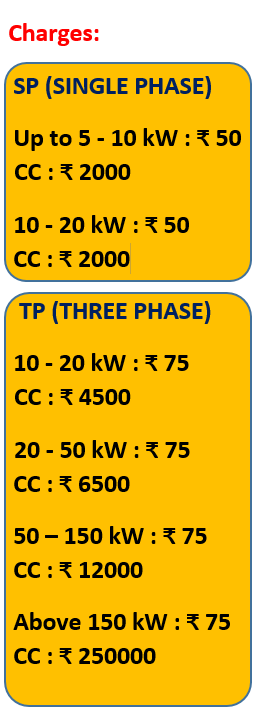
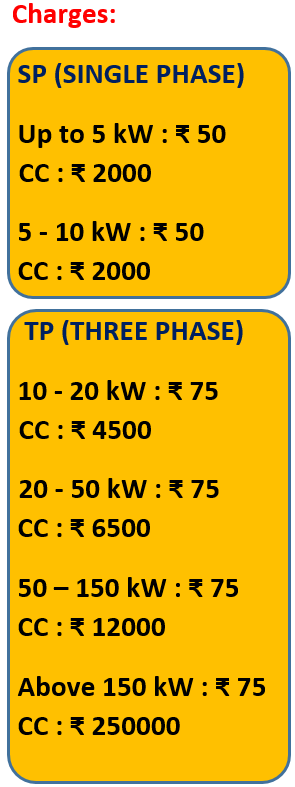
created email and pdf created editentry function and showentry funciton

diff --git a/Electrica/main.py b/Electrica/main.py
@@ -154,7 +154,7 @@ def consumerEntry():
     receipt_toplogo = Label(conentry, image=entrytop, borderwidth="0")
     receipt_toplogo.place(x="37", y="2")
 
-    conentry_left = Image.open("Images/charges.png")
+    conentry_left = Image.open("Images/charges2.png")
     entryleft = ImageTk.PhotoImage(conentry_left)
     conentry.photo = entryleft  # solution for bug in `PhotoImage`
     receipt_leftcharges = Label(conentry, image=entryleft, borderwidth="0")
@@ -569,7 +569,7 @@ def editwindow():
     editdetailsbtn = Image.open("Images/editdetails_btn.png")
     editdetailsbtn = ImageTk.PhotoImage(editdetailsbtn)
     editentry.photo3 = editdetailsbtn
-    submit_receipt = Button(editentry, image=editdetailsbtn, bg="goldenrod1", bd="0", activebackground='green')
+    submit_receipt = Button(editentry, image=editdetailsbtn, bg="goldenrod1", bd="0", activebackground='green',command=editentries)
     submit_receipt.place(x="190", y="250")
 
     editentry.mainloop()
@@ -752,6 +752,140 @@ def showentry():
     print("Consumer details displayed")
 
     condisplay.mainloop()
+
+def editentries():
+    conentry = Toplevel()
+    global conname_entry, conphone_entry, address1_entry, address2_entry, address3_entry, pincode_entry, email_entry, aadhar_entry, pan_entry, click, click2, var, meter_entry
+    window_width, window_height = 1000, 950
+    screen_width = conentry.winfo_screenwidth()
+    screen_height = conentry.winfo_screenheight()
+    position_top = int(screen_height / 2 - window_height / 2)
+    position_right = int(screen_width / 2 - window_width / 2)
+    conentry.geometry(f"{window_width}x{window_height}+{position_right}+{position_top}")
+
+    conentry.title("CONSUMER DETAILS ENTRY")
+    conentry.configure(bg="white")
+    conentry.resizable(width=False, height=False)
+    conentry.iconbitmap('Images/icon2.ico')
+
+    conentry_top = Image.open("Images/adcon_toptemp.png")
+    entrytop = ImageTk.PhotoImage(conentry_top)
+    conentry.photo = entrytop  # solution for bug in `PhotoImage`
+    receipt_toplogo = Label(conentry, image=entrytop, borderwidth="0")
+    receipt_toplogo.place(x="37", y="2")
+
+    conentry_left = Image.open("Images/charges2.png")
+    entryleft = ImageTk.PhotoImage(conentry_left)
+    conentry.photo = entryleft  # solution for bug in `PhotoImage`
+    receipt_leftcharges = Label(conentry, image=entryleft, borderwidth="0")
+    receipt_leftcharges.place(x="70", y="230")
+
+    entrydown = Image.open("Images/adcon_downtempnew.png")
+    entrydown = ImageTk.PhotoImage(entrydown)
+    conentry.photo = entrydown  # solution for bug in `PhotoImage`
+    receipt_toplogo = Label(conentry, image=entrydown, borderwidth="0")
+    receipt_toplogo.place(x="37", y="800")
+
+    con_name = Label(conentry, text="Name                           : ", font="lucida 12 bold ", bg="white", fg="blue4")
+    con_name.place(x="300", y="150")
+    conname_entry = Entry(conentry, width="32", font="lucida 12", bd="3", bg="grey94")
+    conname_entry.place(x="530", y="150")
+
+    conphone = Label(conentry, text="Phone No                    :", font="lucida 12 bold ", bg="white", fg="blue4")
+    conphone.place(x="300.5", y="200")
+    conphone_entry = Entry(conentry, width="20", font="lucida 12", bd="3", bg="grey94")
+    conphone_entry.place(x="530", y="200")
+
+    address_label = Label(conentry, text="Address :", font="lucida 12 bold underline", bg="white")
+    address_label.place(x="300", y="250")
+
+    address1_label = Label(conentry, text="Flat, House no./ Company  :", font="lucida 10 bold", bg="white", fg="blue4")
+    address1_label.place(x="300", y="290")
+    address1_entry = Entry(conentry, width="35", font="lucida 11", bd="3", bg="grey94")
+    address1_entry.place(x="530", y="290")
+
+    address2_label = Label(conentry, text="Area, Street, Village           :", font="lucida 10 bold", bg="white",
+                           fg="blue4")
+    address2_label.place(x="301", y="330")
+    address2_entry = Entry(conentry, width="35", font="lucida 11", bd="3", bg="grey94")
+    address2_entry.place(x="530", y="330")
+
+    address3_label = Label(conentry, text="Landmark, Town/City         :", font="lucida 10 bold", bg="white",
+                           fg="blue4")
+    address3_label.place(x="300", y="370")
+    address3_entry = Entry(conentry, width="35", font="lucida 11", bd="3", bg="grey94")
+    address3_entry.place(x="530", y="370")
+
+    pincode_label = Label(conentry, text="Pincode                              :", font="lucida 10 bold", bg="white",
+                          fg="blue4")
+    pincode_label.place(x="300", y="410")
+    pincode_entry = Entry(conentry, width="14", font="lucida 11", bd="3", bg="grey94")
+    pincode_entry.place(x="530", y="410")
+
+    email_label = Label(conentry, text="Email                           :", font="lucida 12 bold", bg="white",
+                        fg="blue4")
+    email_label.place(x="300", y="460")
+    email_entry = Entry(conentry, width="30", font="lucida 12", bd="3", bg="grey94")
+    email_entry.place(x="530", y="460")
+
+    aadhar_label = Label(conentry, text="Aadhar No                   :", font="lucida 12 bold", bg="white", fg="blue4")
+    aadhar_label.place(x="300", y="510")
+    aadhar_entry = Entry(conentry, width="13", font="lucida 12", bd="3", bg="grey94")
+    aadhar_entry.place(x="530", y="510")
+
+    pan_label = Label(conentry, text="PAN                             : ", font="lucida 12 bold", bg="white",
+                      fg="blue4")
+    pan_label.place(x="300", y="560")
+    pan_entry = Entry(conentry, width="13", font="lucida 12", bd="3", bg="grey94")
+    pan_entry.place(x="530", y="560")
+
+    supplytype_label = Label(conentry, text="Supply Type                :", font="lucida 12 bold", bg="white",
+                             fg="blue4")
+    supplytype_label.place(x="300", y="610")
+    list1 = ['SINGLE PHASE', 'THREE PHASE']
+    click = StringVar()
+    click.set("Select Type")
+    type_dropdown = OptionMenu(conentry, click, *list1)
+    type_dropdown.config(bg="blue4", fg="white", width="12", activebackground="dodger blue", activeforeground="black")
+    type_dropdown.place(x="530", y="605")
+
+    list2 = ['Up to 5 kW', '5-10 kW', '10-20 kW', '20-50 kW', '50-150 kW', 'Above 150 kW']
+    click2 = StringVar()
+    click2.set("Select Requirement")
+    test_dropdown = OptionMenu(conentry, click2, *list2)
+    test_dropdown.config(bg="blue4", fg="white", width="15", activebackground="dodger blue", activeforeground="black")
+    test_dropdown.place(x="690", y="605")
+
+    usage_label = Label(conentry, text="Purpose of Supply      :", font="lucida 12 bold", bg="white", fg="blue4")
+    usage_label.place(x="301", y="660")
+    var = StringVar()
+    domsymbol = Image.open("Images/domesticss_btn.png")
+    domsymbol = ImageTk.PhotoImage(domsymbol)
+    conentry.photo = domsymbol  # solution for bug in `PhotoImage`
+    domestic_radio = Radiobutton(conentry, image=domsymbol, variable=var, bg="white", fg="blue", font="2",
+                                 value="DOMESTIC", bd="0", activebackground="white")
+    domestic_radio.place(x="530", y="650")
+
+    indsymbol = Image.open("Images/industrialss_btn.png")
+    indsymbol = ImageTk.PhotoImage(indsymbol)
+    conentry.photo = indsymbol  # solution for bug in `PhotoImage`
+    industry_radio = Radiobutton(conentry, image=indsymbol, variable=var, bg="white", fg="blue", font="2",
+                                 value="INDUSTRIAL", bd="0", activebackground="white")
+    industry_radio.place(x="600", y="650")
+
+    meter_label = Label(conentry, text="Meter No                     : ", font="lucida 12 bold", bg="white", fg="blue4")
+    meter_label.place(x="300", y="710")
+    meter_entry = Entry(conentry, width="13", font="lucida 12", bd="3", bg="grey94")
+    meter_entry.place(x="530", y="710")
+
+
+    submitsymbol = Image.open("Images/save_changes_button.png")
+    submitsymbol = ImageTk.PhotoImage(submitsymbol)
+    conentry.photo3 = submitsymbol
+    submit_receipt = Button(conentry, image=submitsymbol, bg="white", bd="0", activebackground='green', command=submit)
+    submit_receipt.place(x="785", y="750")
+
+    conentry.mainloop()
 
 
 homeWindow()
